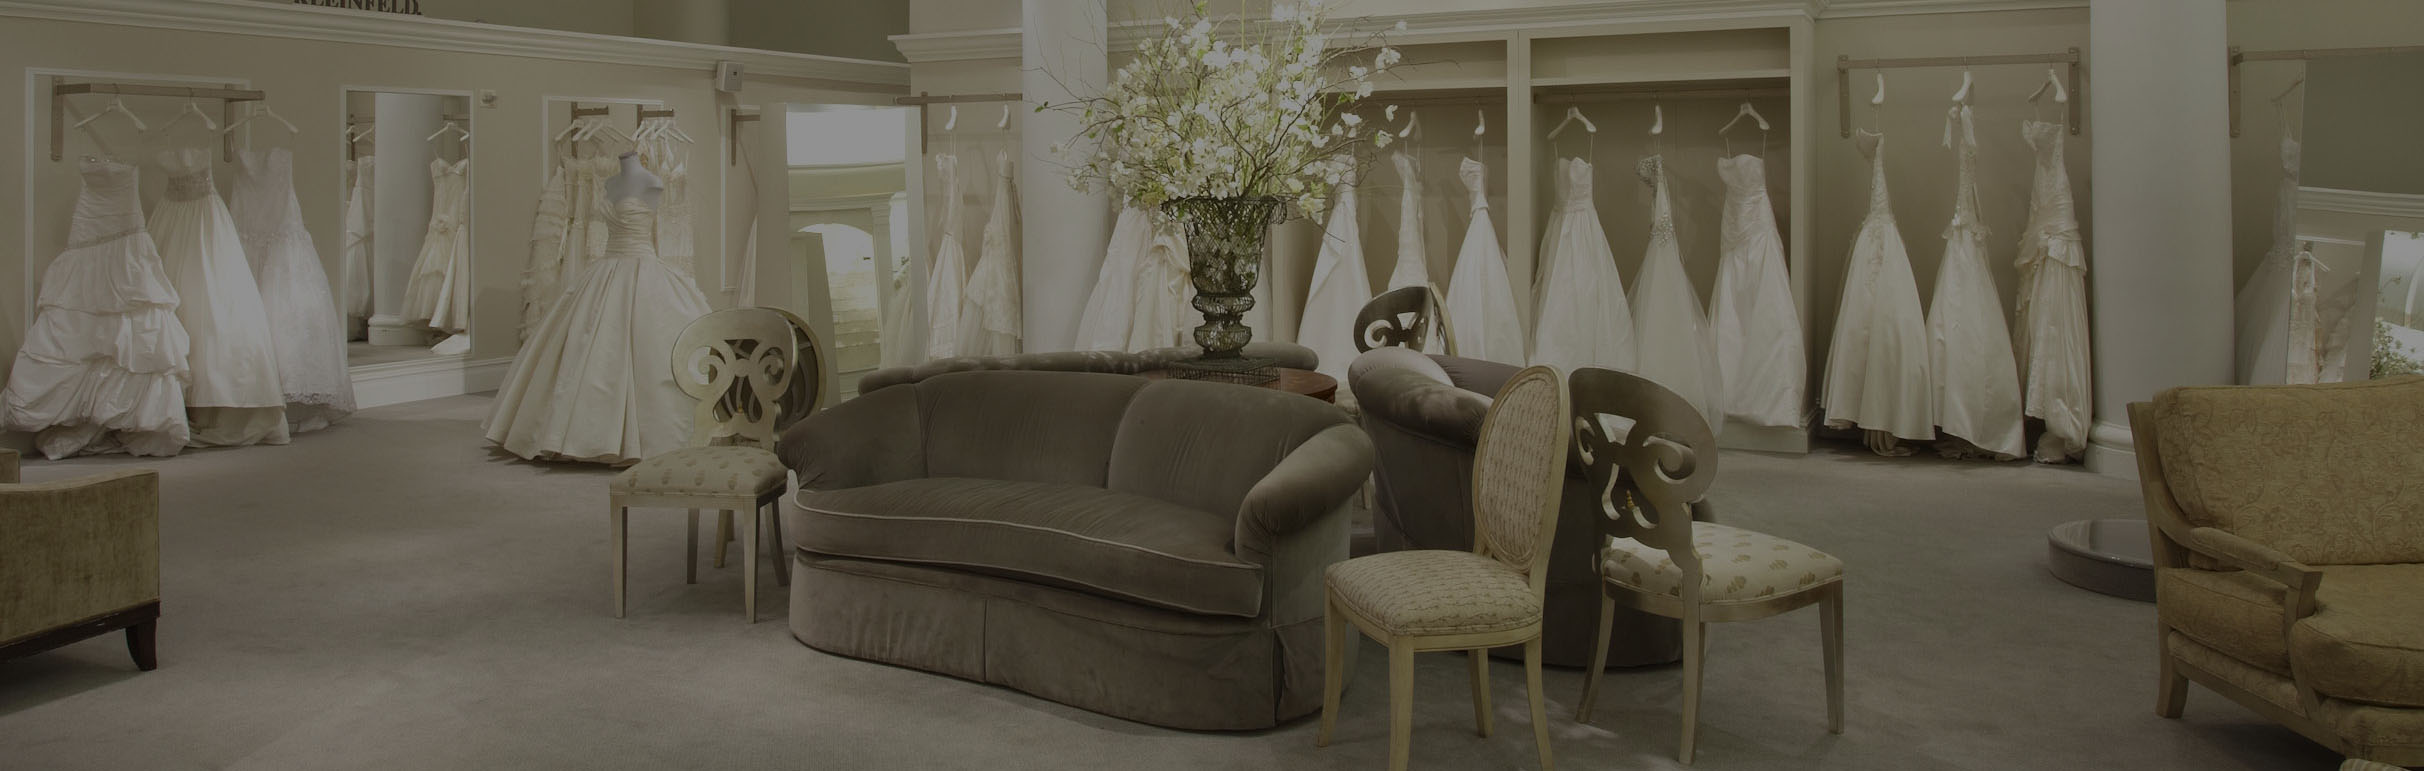
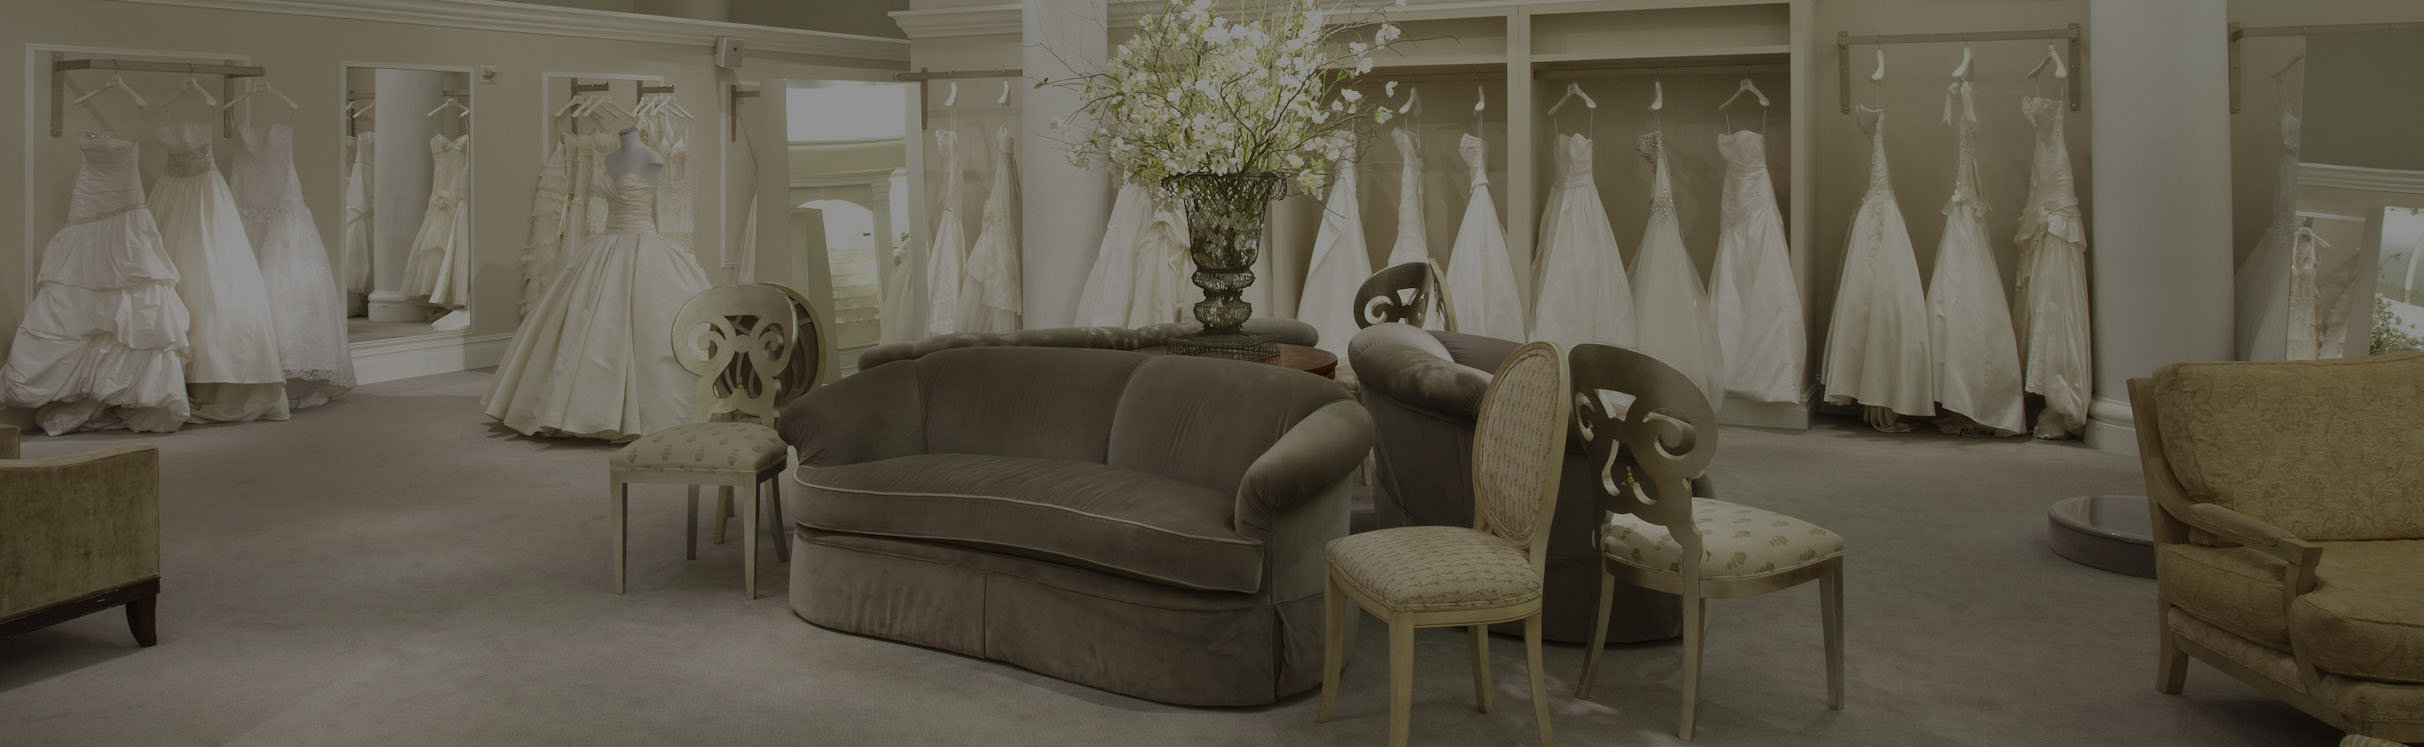
Use ember data for locations

diff --git a/app/controllers/locations.js b/app/controllers/locations.js
@@ -1,0 +1,61 @@
+import Ember from 'ember';
+
+export default Ember.Controller.extend({
+  items: [
+    {
+      src: 'huntsville.jpg',
+      title: 'Huntsville, AL',
+      mall: 'Parkway Place Mall',
+      street: '2801 Memorial Pkwy SW',
+      city: 'Huntsville, AL 35801',
+      phone: '(256)-382-3493',
+      hours1: 'Sunday: 12:00PM-6:00PM',
+      hours2: 'Monday-Saturday: 10:00AM-9:00PM',
+      directions: 'https://www.google.com/maps/dir//2801+Memorial+Pkwy+SW,+Huntsville,+AL+35801/@34.7074097,-86.6573115,12z/data=!3m1!4b1!4m8!4m7!1m0!1m5!1m1!1s0x88626cb6f14df777:0xb6310f3a499528d9!2m2!1d-86.5872708!2d34.7072886',
+    },
+    {
+      src: 'fairfield.png',
+      title: 'Fairfield, OH',
+      mall: 'The Mall at Fairfield Commons',
+      street: '2727 Fairfield Commons',
+      city: 'Beavercreek, OH 45431',
+      phone: '(937)-320-9370',
+      hours1: 'Sunday: 12:00PM-6:00PM',
+      hours2: 'Monday-Saturday: 10:00AM-9:00PM',
+      directions: 'https://www.google.com/maps/dir//The+Mall+at+Fairfield+Commons,+2727+Fairfield+Commons,+Beavercreek,+OH+45431/@39.7673189,-84.1264585,12z/data=!3m1!4b1!4m8!4m7!1m0!1m5!1m1!1s0x88409c607dc50449:0xa896241ea23e8449!2m2!1d-84.056418!2d39.767208',
+    },
+    {
+      src: 'olmstead.png',
+      title: 'North Olmstead, OH',
+      mall: 'Great Northern Mall',
+      street: '4954 Great Northern Blvd Unit 632',
+      city: 'North Olmsted, OH 44070',
+      phone: '(440)-782-7972',
+      hours1: 'Sunday: 11:00AM-6:00PM',
+      hours2: 'Monday-Saturday: 10:00AM-9:00PM',
+      directions: 'https://www.google.com/maps/dir//Great+Northern+Mall,+4954+Great+Northern+Mall,+North+Olmsted,+OH+44070/@41.4171475,-81.9759364,12z/data=!3m1!4b1!4m8!4m7!1m0!1m5!1m1!1s0x8830930b268db571:0xd513decb45cdefc0!2m2!1d-81.905896!2d41.41704',
+    },
+    {
+      src: 'toledo-map.png',
+      title: 'Toledo, OH',
+      mall: 'Franklin Park Mall',
+      street: '5001 Monroe St',
+      city: 'Toledo, OH 43623',
+      phone: '(419)-930-5599',
+      hours1: 'Sunday: 11:00AM-6:00PM',
+      hours2: 'Monday-Saturday: 10:00AM-9:00PM',
+      directions: 'https://www.google.com/maps/dir//5001+Monroe+St,+Toledo,+OH+43623/@41.6944114,-83.6468595,15.43z/data=!4m8!4m7!1m0!1m5!1m1!1s0x883c7efa33864b15:0x8df158fc81e338ec!2m2!1d-83.6405727!2d41.6947913',
+    },
+    {
+      src: 'cind-dayton.png',
+      title: 'Cinderella | Dayton, OH',
+      mall: 'Dayton Mall',
+      street: '2700 Miamisburg Centerville Rd',
+      city: 'Dayton, OH 45459',
+      phone: '(937)-312-9969',
+      hours1: 'Sunday: 12:00PM-6:00PM',
+      hours2: 'Monday-Saturday: 10:00AM-9:00PM',
+      directions: 'https://www.google.com/maps/dir//2700+Miamisburg+Centerville+Road,+Dayton,+OH/@39.6346723,-84.2246246,16z/data=!3m1!4b1!4m8!4m7!1m0!1m5!1m1!1s0x884088fc1adf2dfd:0x7f6b7425ccf2910e!2m2!1d-84.2202472!2d39.6346641',
+    },
+  ],
+});

diff --git a/tests/unit/controllers/locations-test.js b/tests/unit/controllers/locations-test.js
@@ -1,0 +1,12 @@
+import { moduleFor, test } from 'ember-qunit';
+
+moduleFor('controller:locations', 'Unit | Controller | locations', {
+  // Specify the other units that are required for this test.
+  // needs: ['controller:foo']
+});
+
+// Replace this with your real tests.
+test('it exists', function(assert) {
+  let controller = this.subject();
+  assert.ok(controller);
+});

diff --git a/app/styles/gallery.scss b/app/styles/gallery.scss
@@ -15,7 +15,7 @@
   margin: 0;
   padding: 1rem;
   background: url('/images/gallery-banner.jpg') fixed no-repeat;
-  background-size: contain;
+  background-size: cover;
   overflow: auto;
 
   &__content {
